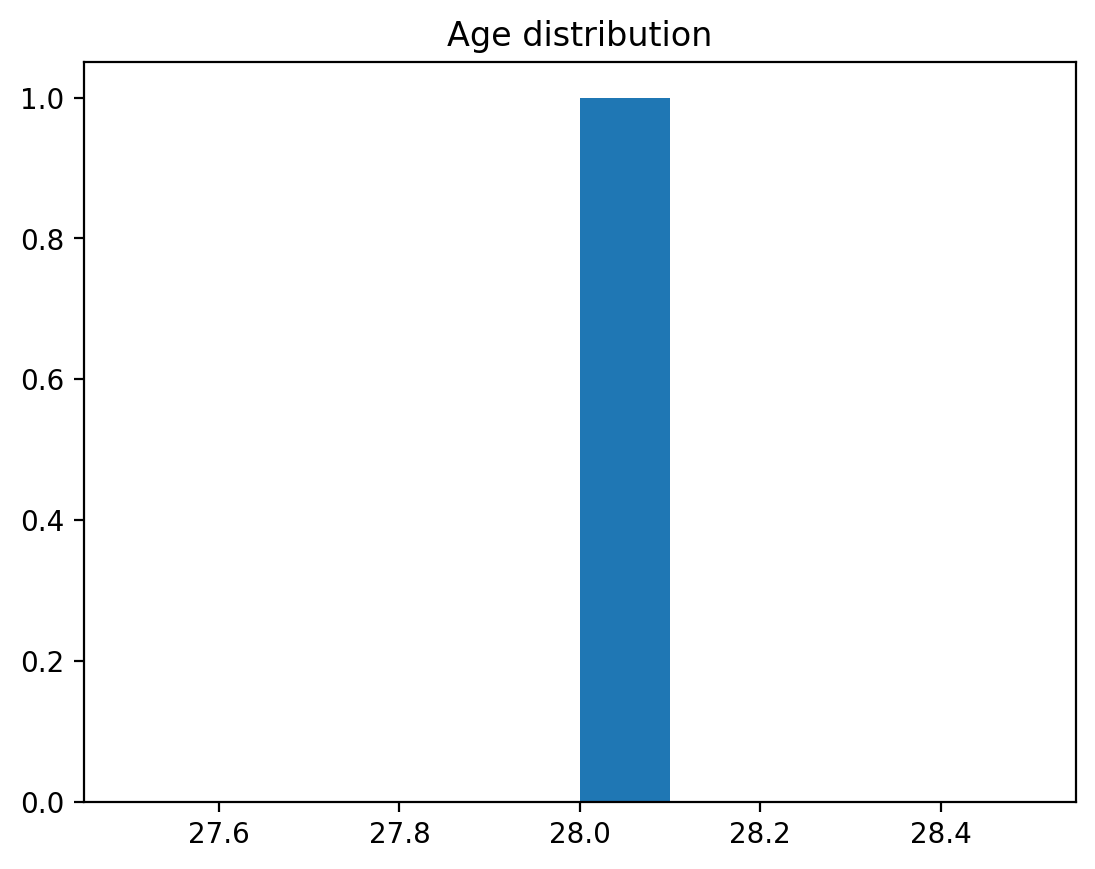
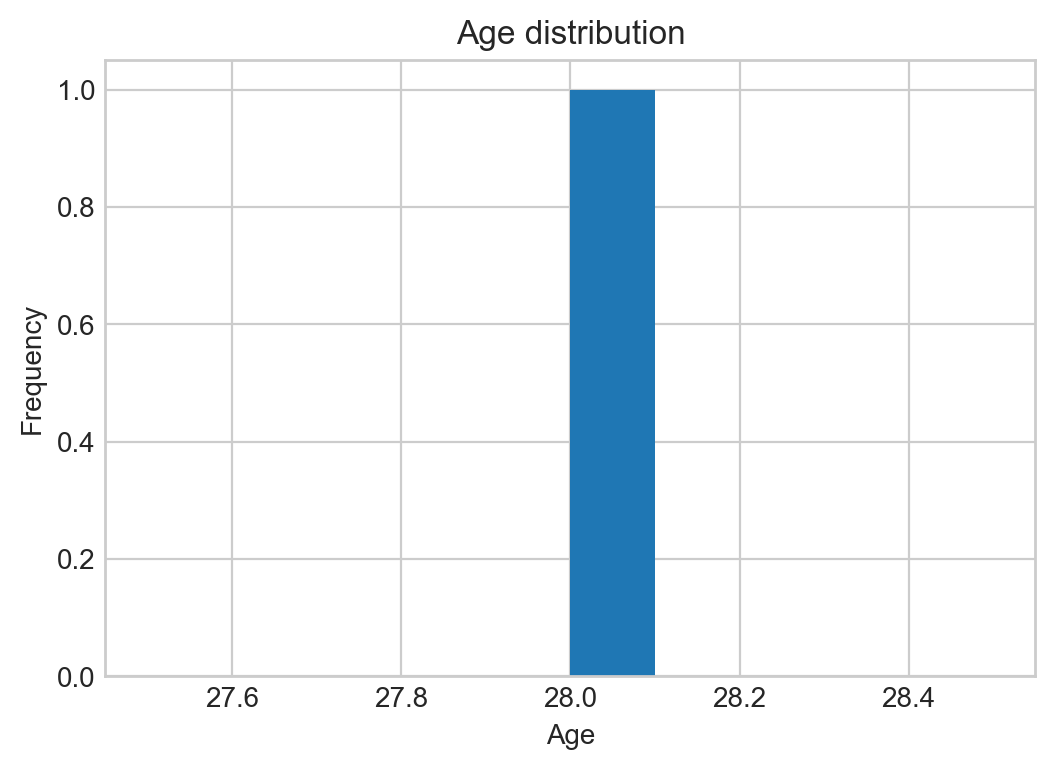
EDA GA: plots + quick page + high-DPI images

diff --git a/docs/eda_ga/index.md b/docs/eda_ga/index.md
@@ -1,6 +1,12 @@
-# EDA GA — Quick Look
+---
+title: EDA GA — Quick look
+---
 
-**What this shows:** tiny demo dataset, quick visuals.
+- **Back to portfolio home:** [/data-analytics-portfolio/](/data-analytics-portfolio/)
+- **Cleaning GA — Profile:** [/data-analytics-portfolio/cleaning_ga/](/data-analytics-portfolio/cleaning_ga/)
 
+### Age distribution
+![Age distribution](/data-analytics-portfolio/eda_ga/age_hist.png)
 
-[⬅ Back to portfolio](/data-analytics-portfolio/)
+### Name counts
+![Name counts](/data-analytics-portfolio/eda_ga/name_counts.png)
